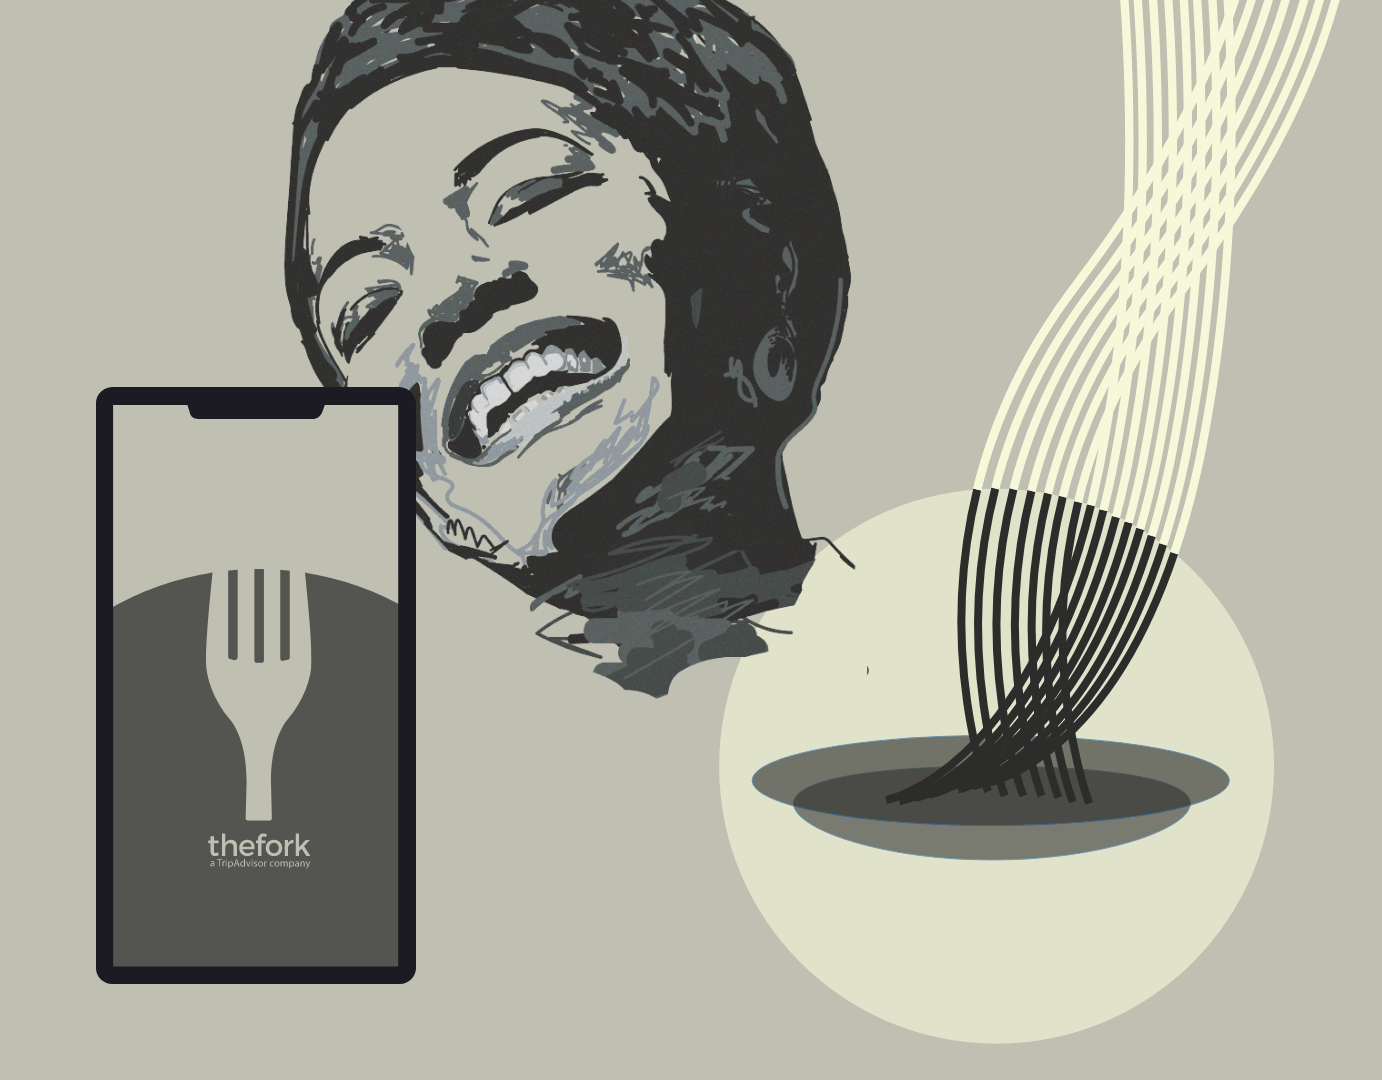
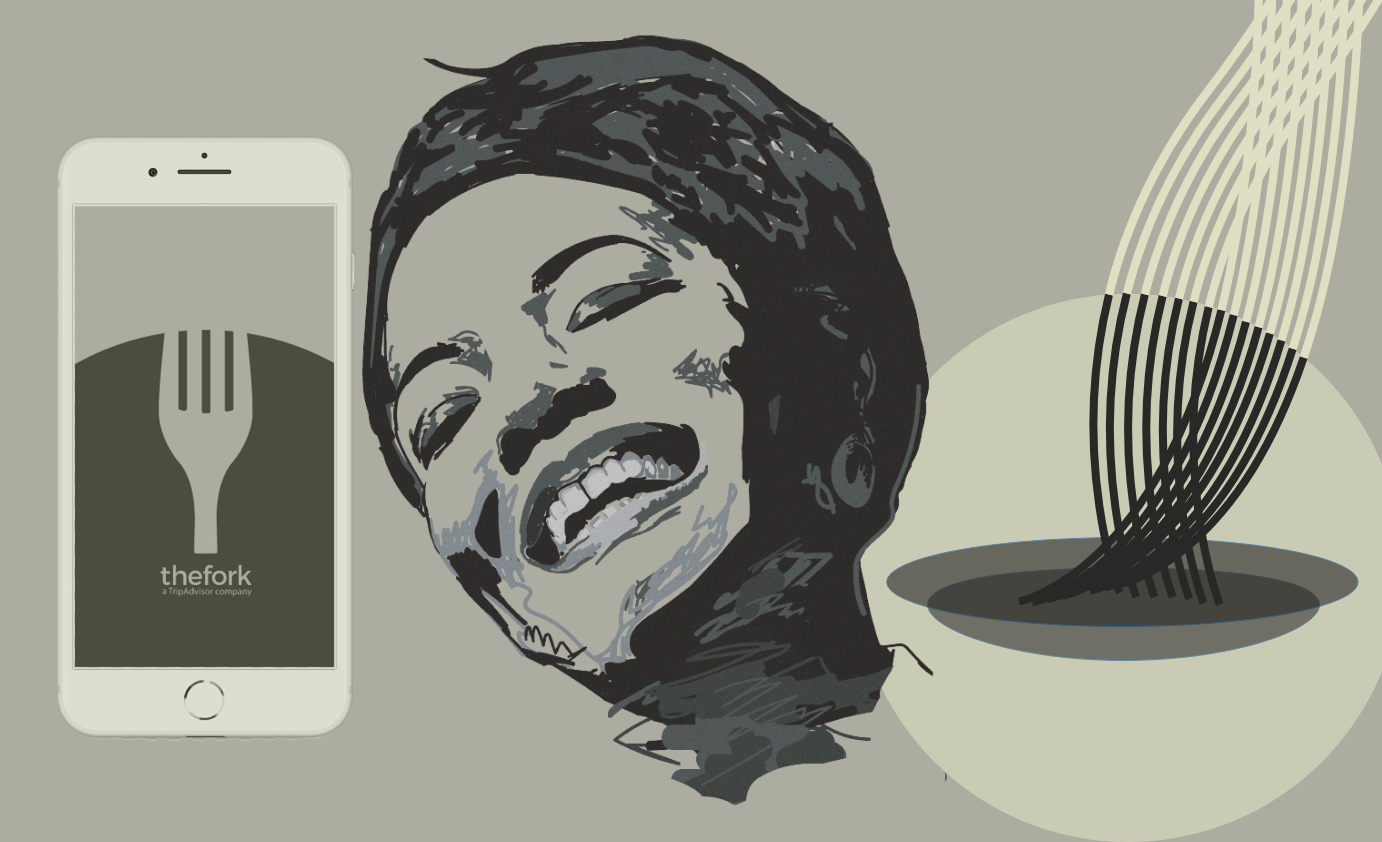
.

diff --git a/index.html b/index.html
@@ -57,7 +57,7 @@
 
     <div class="offset-by-one columns six video-area">
       <a href="dt_projects_page.html">
-        <img class="startpage-video mobile" src="images/startpage/startpagemob.png" alt="">
+        <img class="startpage-video mobile" src="images/startpage/frontimagemob.png" alt="">
         <video class="startpage-video desktop" loop="" autoplay="" muted="" src="images/startpage/startpagevideo.mp4"></video>
         <h2>Projects</h2>
         <img class="arrow" src="images/startpage/arrowtwo.svg" alt="">
